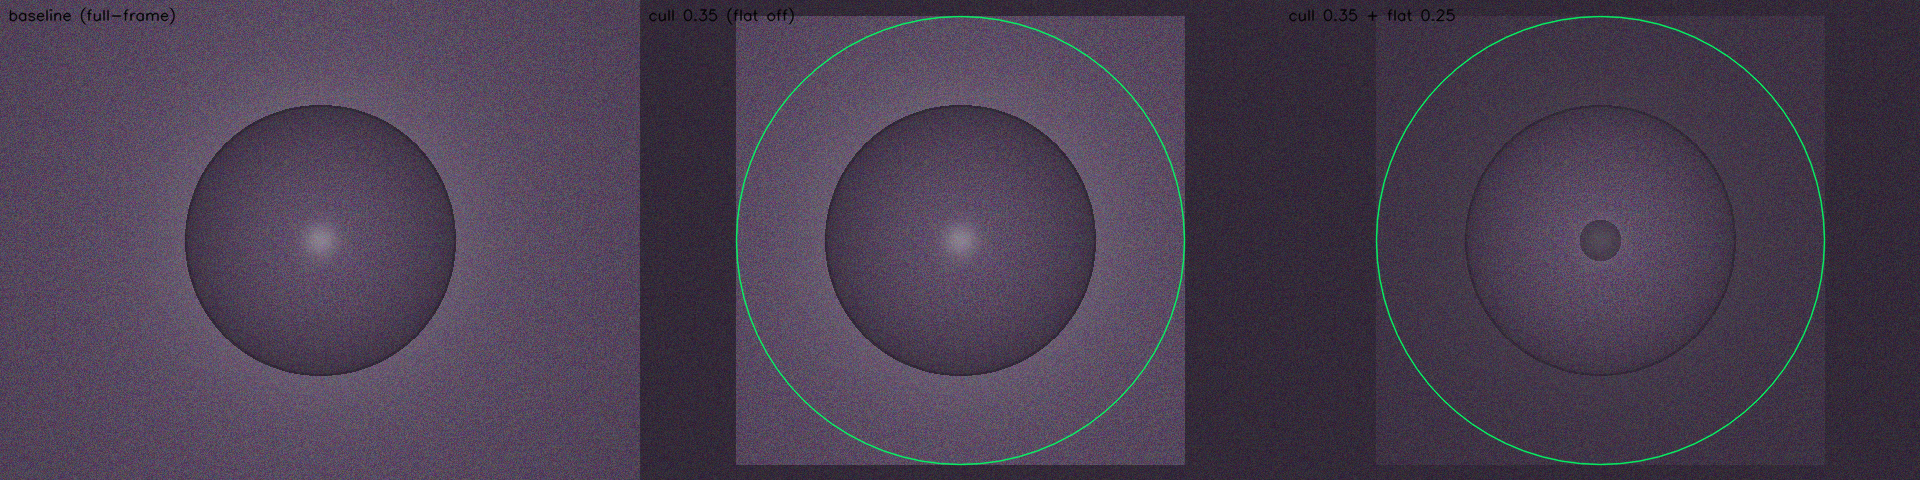
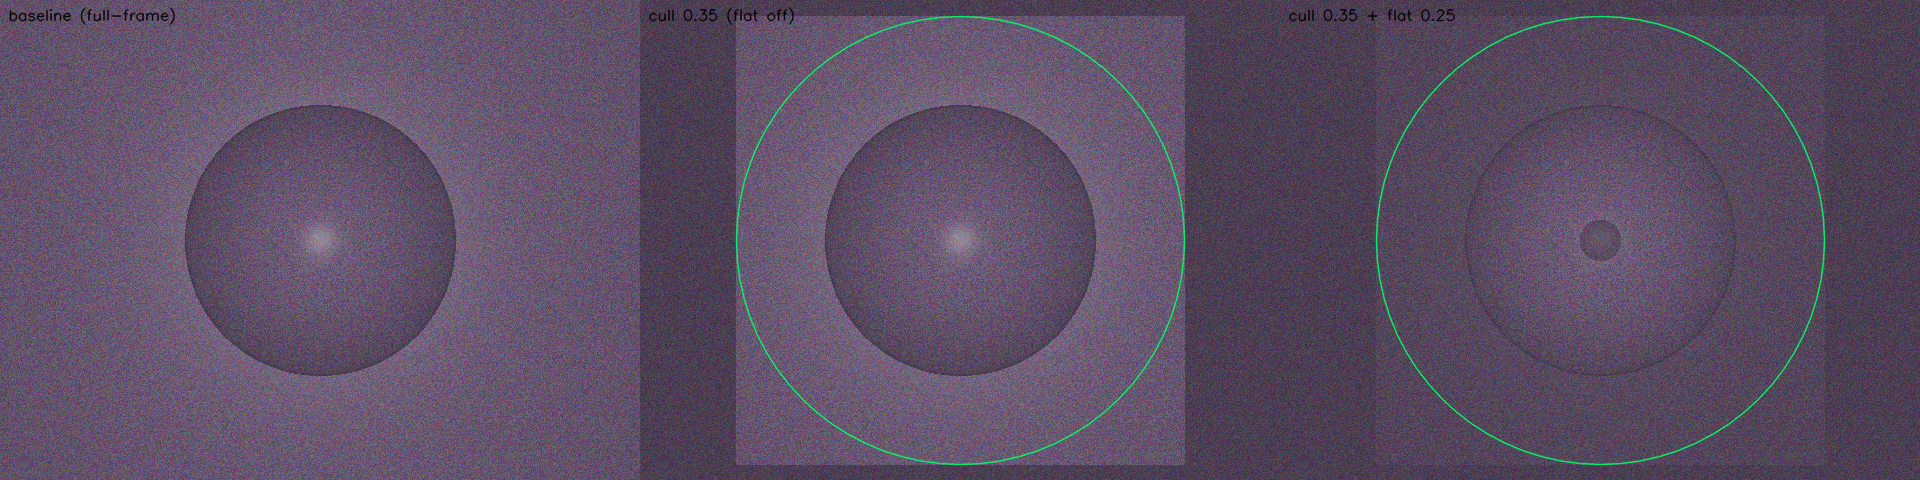
gpu-cull default off + ambient 0.38, cpu keeps 0.35 cull

diff --git a/main.py b/main.py
@@ -28,9 +28,10 @@ def main():
     parser.add_argument("--strength", type=float, default=40.0)
     parser.add_argument("--input-size", type=int, default=518,
                         help="Model resize target, multiple of 14: try 294 for speed, 518 for detail")
-    parser.add_argument("--cull-radius-frac", type=float, default=0.35,
+    parser.add_argument("--cull-radius-frac", type=float, default=None,
                         help="Shading cull radius as fraction of image width; 0 disables. Inside the "
-                             "circle gets full direct light, outside is ambient only.")
+                             "circle gets full direct light, outside is ambient only. Default None = "
+                             "auto: 0 on CUDA (relight is launch-bound there), 0.35 on CPU.")
     parser.add_argument("--flat-threshold", type=float, default=0.95,
                         help="Raw normal Nz above this (walls/flat) scales direct light by --flat-suppress; "
                              "0 disables flat suppression.")
@@ -43,7 +44,7 @@ def main():
         parser.error("Dimensions must be >= 3; strength must be finite and nonnegative.")
     if args.input_size < 140 or args.input_size % 14:
         parser.error("--input-size must be a multiple of 14 and at least 140.")
-    if not 0.0 <= args.cull_radius_frac <= 2.0 or np.isnan(args.cull_radius_frac):
+    if args.cull_radius_frac is not None and (not 0.0 <= args.cull_radius_frac <= 2.0 or np.isnan(args.cull_radius_frac)):
         parser.error("--cull-radius-frac must be in [0, 2].")
     if not 0.0 <= args.flat_threshold < 1.0 or np.isnan(args.flat_threshold):
         parser.error("--flat-threshold must be in [0, 1).")
@@ -60,6 +61,8 @@ def main():
         from depth import DepthEstimator
         print("Loading Depth Anything V2 Small (first run downloads weights ~99 MB)...", flush=True)
         estimator = DepthEstimator(args.device, input_size=args.input_size)
+        cull_radius_frac = (args.cull_radius_frac if args.cull_radius_frac is not None
+                            else (0.0 if str(estimator.device).lower().startswith("cuda") else 0.35))
         print(f"Device: {estimator.device}. Warming up...", flush=True)
         camera = Webcam(args.camera, args.width, args.height)
         warmup = camera.read()
@@ -93,7 +96,7 @@ def main():
                 points = surface_points(depth, args.strength)
                 relit = shade(frame, points, normals, light.position,
                               intensity=light.intensity, specular=light.specular,
-                              cull_radius_frac=args.cull_radius_frac,
+                              cull_radius_frac=cull_radius_frac,
                               flat_threshold=None if args.flat_threshold <= 0 else args.flat_threshold,
                               flat_suppress=args.flat_suppress)
             shaded = perf_counter()
@@ -104,12 +107,12 @@ def main():
             if args.level == 2:
                 display[:h, 2*w:3*w] = relit
                 light.draw(display)
-                if args.cull_radius_frac > 0:
+                if cull_radius_frac > 0:
                     # Outline the ambient-only region boundary so the cull is visible.
                     cx = int(round(light.position[0]*max(h, w) + (w-1)/2))
                     cy = int(round(light.position[1]*max(h, w) + (h-1)/2))
                     cv2.circle(display[:h, 2*w:3*w], (cx, cy),
-                               int(args.cull_radius_frac*w), (100, 200, 0), 1, cv2.LINE_AA)
+                               int(cull_radius_frac*w), (100, 200, 0), 1, cv2.LINE_AA)
             panel_label = "Camera | Normals XYZ->RGB" + (" | Relit" if args.level == 2 else "")
             lines = [f"{panel_label}    FPS: {fps:.1f}    {estimator.device}    "
                      f"model HxW: {estimator.model_shape}",
@@ -118,7 +121,7 @@ def main():
                 lines += ["Move mouse over Relit: light XY | wheel/[/]: Z toward/away from scene | +/-: power | S: specular | R: reset",
                           f"Light XYZ: ({light.position[0]:+.2f}, {light.position[1]:+.2f}, {light.position[2]:+.2f}) proxy units | "
                           f"power: {light.intensity:.1f} | specular: {'on' if light.specular else 'off'}",
-                          f"Shading cull: {'on (circle; ambient outside)' if args.cull_radius_frac > 0 else 'off'} | "
+                          f"Shading cull: {'on (circle; ambient outside)' if cull_radius_frac > 0 else 'off'} | "
                           f"flat suppression: {'on (Nz>{:.2f}, x{})'.format(args.flat_threshold, args.flat_suppress) if args.flat_threshold > 0 else 'off'}"]
             if probe.point is not None:
                 normal, relative_depth = sample_normal(depth, normals, probe.point)

diff --git a/lighting.py b/lighting.py
@@ -25,7 +25,7 @@ def _unit(vectors):
     return vectors / np.maximum(np.linalg.norm(vectors, axis=-1, keepdims=True), 1e-8)
 
 
-def shade(frame_bgr, points, normals, light_position, *, ambient=0.18,
+def shade(frame_bgr, points, normals, light_position, *, ambient=0.38,
           intensity=1.8, specular=0.35, shininess=48.0,
           cull_radius_frac=0.0, flat_threshold=None, flat_suppress=0.25):
     """Return uint8 BGR: linear-light Lambert + Blinn-Phong, then sRGB.

diff --git a/IMPROVEMENTS.md b/IMPROVEMENTS.md
@@ -298,3 +298,53 @@ root-caused in one pass: `load_helpers()` returns `(nb, ns)`, and the new test
 unpacked `ns, _ = load_helpers()` — so `ns` was the notebook structure, not the
 helpers namespace. Not a library or numpy/torch issue; a four-line unpacking fix
 in the test. No caching/reload system was added.
+
+## Shading cull + ambient retune — September 13, 2026 (live fix)
+
+**Observed live bug:** with the CUDA path at default `cull_radius_frac=0.35`,
+the local window showed a flat, uniformly darkened frame with a hard square
+around the light — not a green color swap, not a degenerate cull box (the box
+covered 61% of the frame), and not a light-fallback bug. The visible square is
+the crop-and-slice boundary: outside it every pixel is `albedo * ambient`
+re-encoded. With `ambient=0.18`, ambient-only regions crushed to mean **~54**
+against **~115** inside the box (61-step jump) and the whole frame dropped
+**134.8 → 91.6** (mean). Root cause measured with source-injected
+instrumentation, not inspection: on a CUDA path where relight is launch-bound,
+the cull costs nothing (±0.1-0.9 ms) but the box's brightness discontinuity is
+always visible.
+
+**Fix (both notebook and desktop, wired on by default):**
+1. `cull_radius_frac` defaults to **0 on CUDA** (evidence: relight is
+   launch-bound there, full-frame is no slower and has no boundary artifact);
+   CPU keeps 0.35 where the crop actually saves time (sweep above).
+   Notebook cell 2: `CULL_SHADING_RADIUS_FRAC = 0.0 if DEVICE.type == "cuda"
+   else 0.35`. Desktop `main.py`: `--cull-radius-frac` now defaults to auto
+   (`None` → 0 on CUDA, 0.35 on CPU), resolved after the estimator is created
+   and used for the shade call, the boundary-ring draw, and the status line.
+2. `ambient` default raised **0.18 → 0.38** in notebook cell-6 `relight_rgb`
+   and `lighting.shade()`. Measured on the exact diagnosis frame
+   (`validation/debug_frame_before/frame_capture_000.png`, same no-palm
+   default light, cull=0): frame-mean drop **42.3 → 7.6** (134.8 → 127.3),
+   pixels <40 from 1.75% → 0.00%, whole-frame `2G/(R+B)` 0.972 → 0.976 (no
+   cast). On a second, harder live frame with 4.3% cast shadows: drop
+   **52.8 → 24.4**, remaining drop is legitimate Lambert shading. I stayed at
+   0.38 rather than pushing toward 0.5 to keep shadow contrast; the value is a
+   single knob in cell 2 / `lighting.shade`.
+
+**Live re-verification (`validation/debug_frame/`):** the instrumented 48-frame
+camera loop now prints `in_box_frac=1.0000` on every relight (full-frame, no
+box). During the run a hand was detected and moved the light to (1.05, 0.17)
+with open-hand power through ~8.0, confirming hand tracking still drives the
+light. Before/after PNG pairs in `validation/debug_frame_before` /
+`validation/debug_frame`.
+
+**Regression re-checks:** `test_notebook_lighting_cull.py` passes on CUDA (bit
+-exact cull/flat features incl. the full-frame/legacy path), `test_lighting.py`
+passes (7/7, fake estimator's string `.device` handled),
+`test_notebook_geometry/shadows/gestures/local/performance` and the Node
+browser-controls checks all pass. `test_notebook_onnx.py` remains
+environment-blocked (onnxruntime-gpu not installed) and is unrelated.
+Feathering (soft cull edge) was explicitly deferred — it only matters on the
+CPU crop path. Still pending: live shadow-following with an actual hand, and
+the threaded capture→depth producer so the 40 ms depth stage streams ahead of
+render.

diff --git a/context.md b/context.md
@@ -336,3 +336,32 @@ resolve before committing:
 - Remaining: live hand/camera validation of cull+flat, threaded (producer/
   consumer) pipeline so 40 ms depth streams ahead of render, and the full
   Level 3–4 port from notebook to `main.py` before submission.
+
+## Shading cull + ambient retune — September 13, 2026 (live fix)
+
+- Live run exposed a visual bug: full-frame dark flat wash + a hard square
+  around the light. Instrumented and measured, not guessed: the square is the
+  crop-and-slice boundary (61% of frame), outside-pixels are ambient-only and
+  crushed to mean ~54 vs inside ~115; frame dropped 134.8 → 91.6. Not a color
+  swap (2G/(R+B) 0.972→0.969), not a cull degenerate, not a light failure.
+- **Fix:** (1) `cull_radius_frac` defaults to 0 on CUDA (relight launch-bound
+  there, full-frame no slower, no boundary artifact); CPU keeps 0.35 where the
+  crop saves time. Notebook cell 2: `0.0 if DEVICE.type=="cuda" else 0.35`;
+  `main.py --cull-radius-frac` now auto-defaults (None→0 CUDA / 0.35 CPU) and
+  the resolved value drives shade, ring draw, and status. (2) ambient default
+  **0.18 → 0.38** in notebook cell-6 `relight_rgb` and `lighting.shade()`;
+  measured drop 42.3→7.6 on the diagnosis frame, dark-fraction 1.75%→0.00%,
+  no green cast; a harder frame with 4.3% shadows shows 52.8→24.4 (remaining
+  drop is legit Lambert). Kept 0.38 to preserve shadow contrast; single knob
+  in cell 2 / `lighting.shade`.
+- Live instrumented re-run: `in_box_frac=1.0000` every frame (no box); a hand
+  was detected and moved the light ((1.05,0.17), open-hand power ~8) — hand
+  tracking still drives shading. Before/after PNGs in `validation/debug_frame_before`
+  and `validation/debug_frame`.
+- Regression: `test_notebook_lighting_cull.py` (CUDA), `test_lighting.py` 7/7
+  (fake estimator's string `.device` handled via `str(...).lower().startswith`),
+  geometry/shadows/gestures/local/performance + Node controls all pass;
+  `test_notebook_onnx.py` still environment-blocked (onnxruntime-gpu missing),
+  unrelated. Feathering deferred (CPU-crop-only). Still pending: live
+  shadow-following with a real hand; threaded capture→depth producer; full
+  Level 3–4 port to `main.py`.
